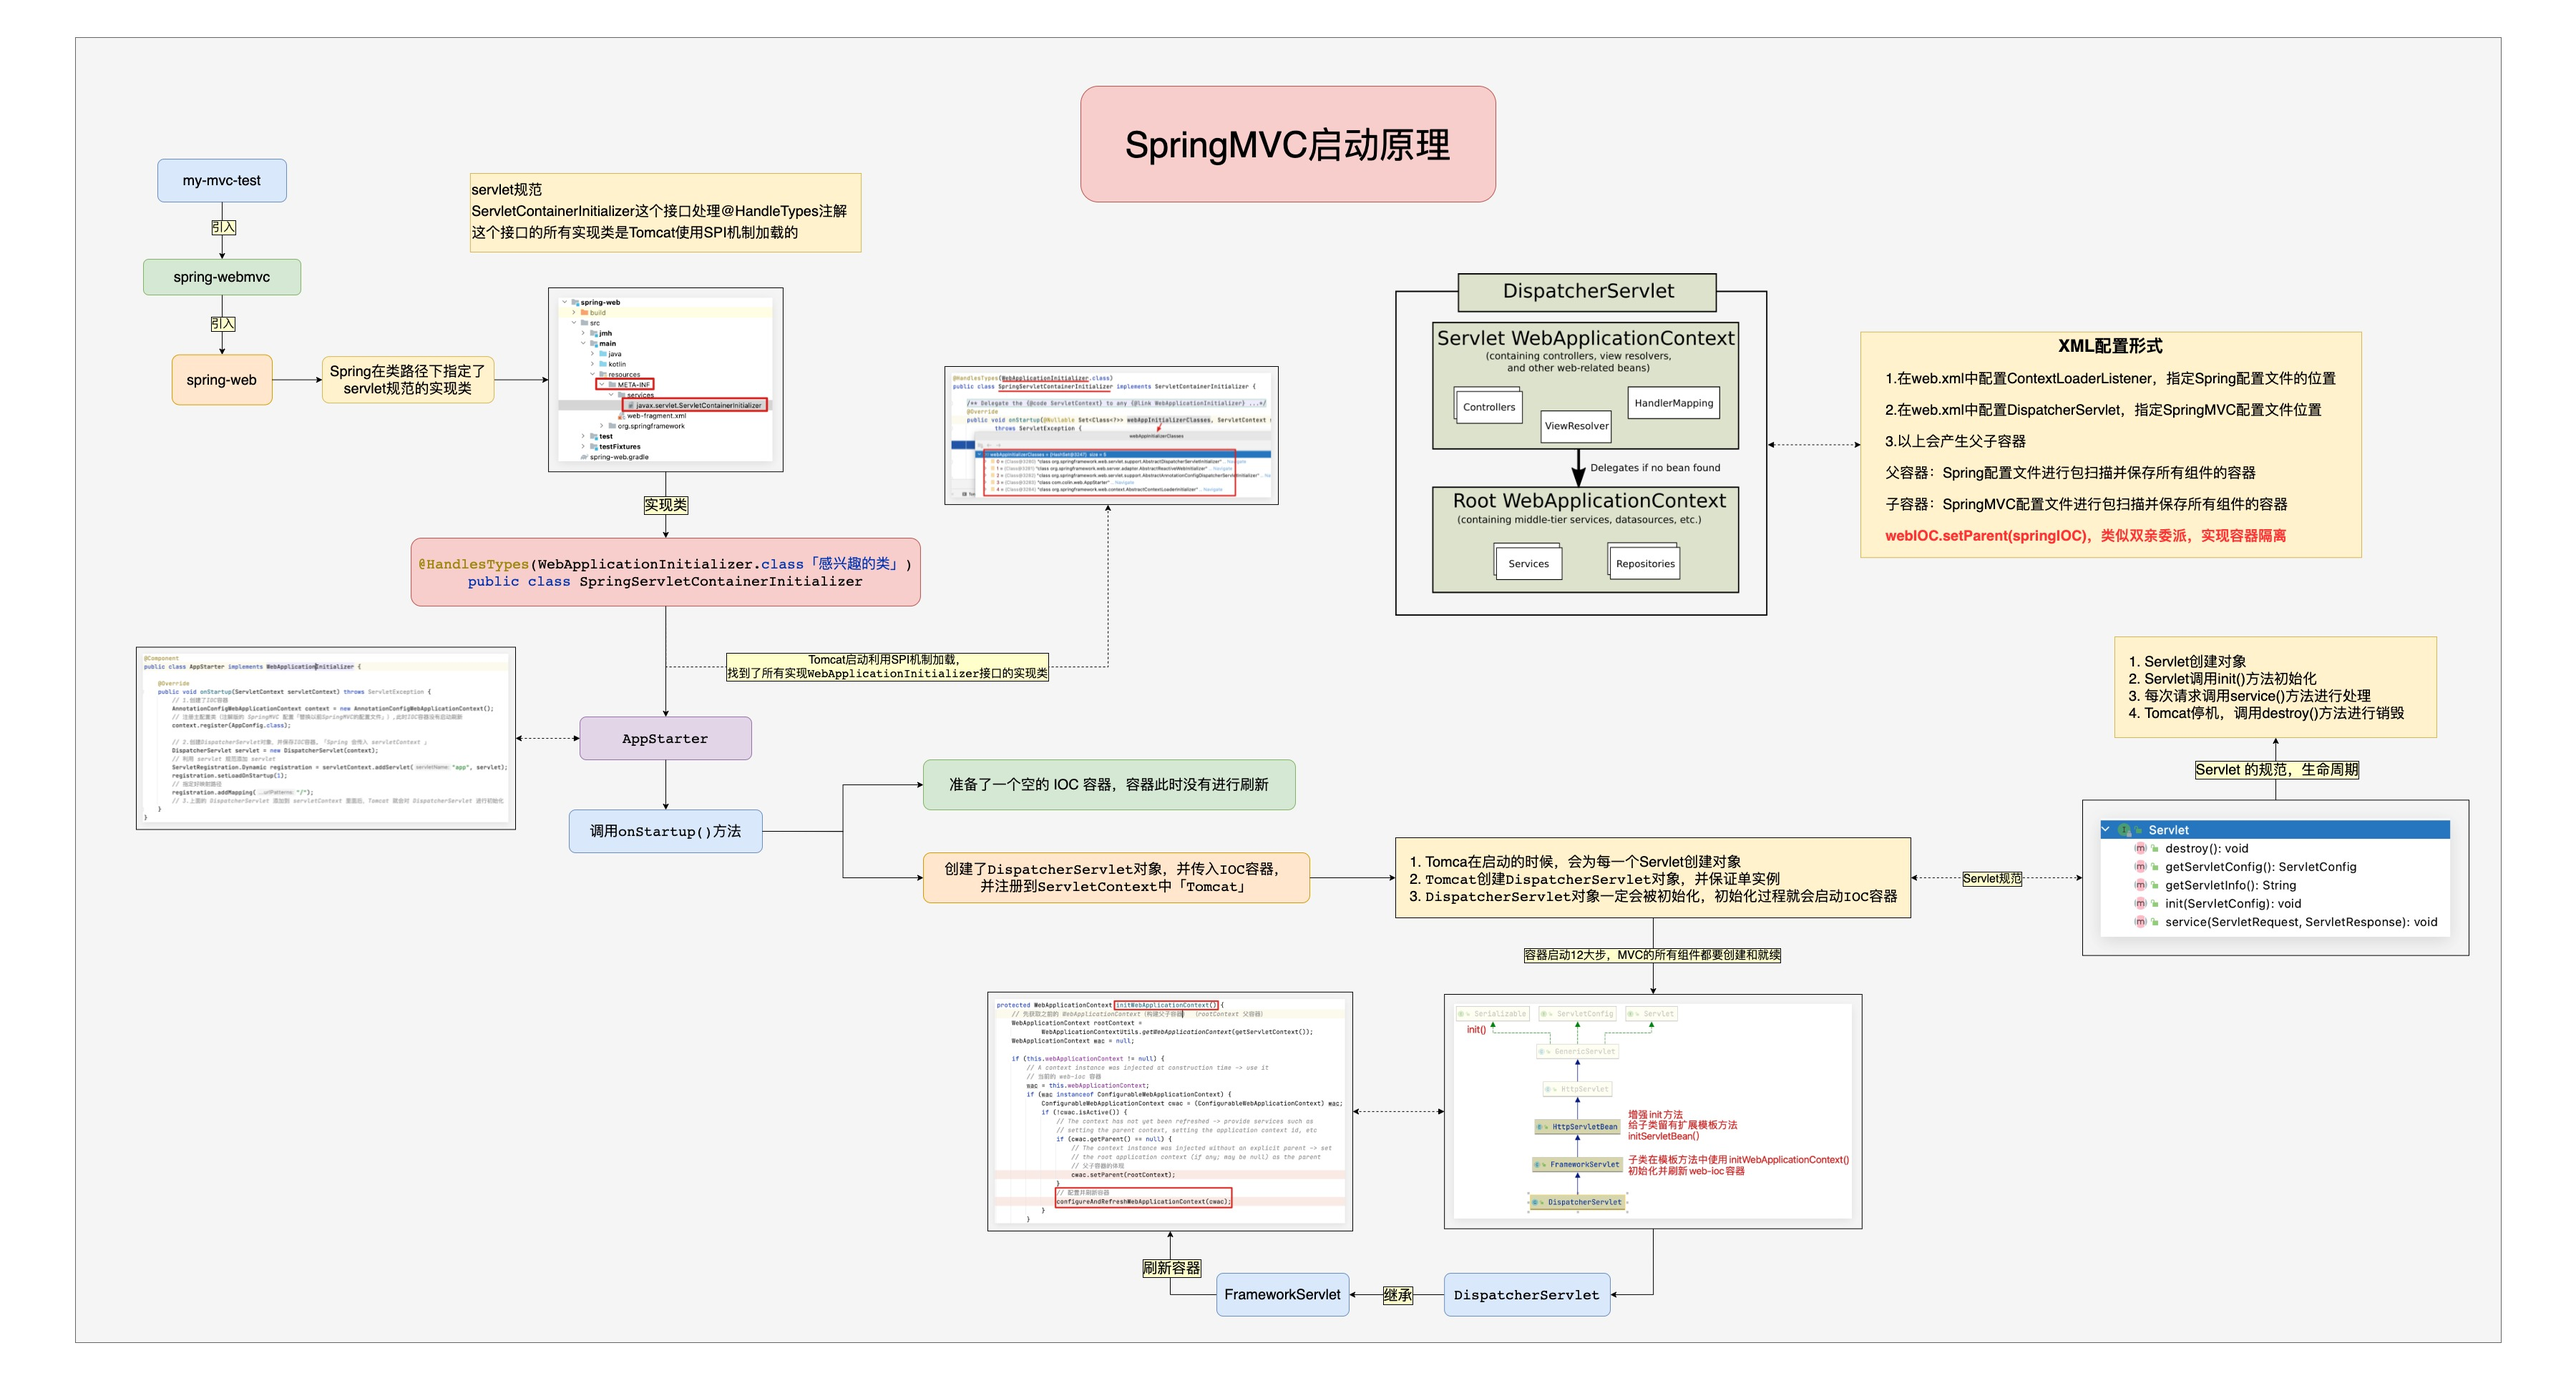
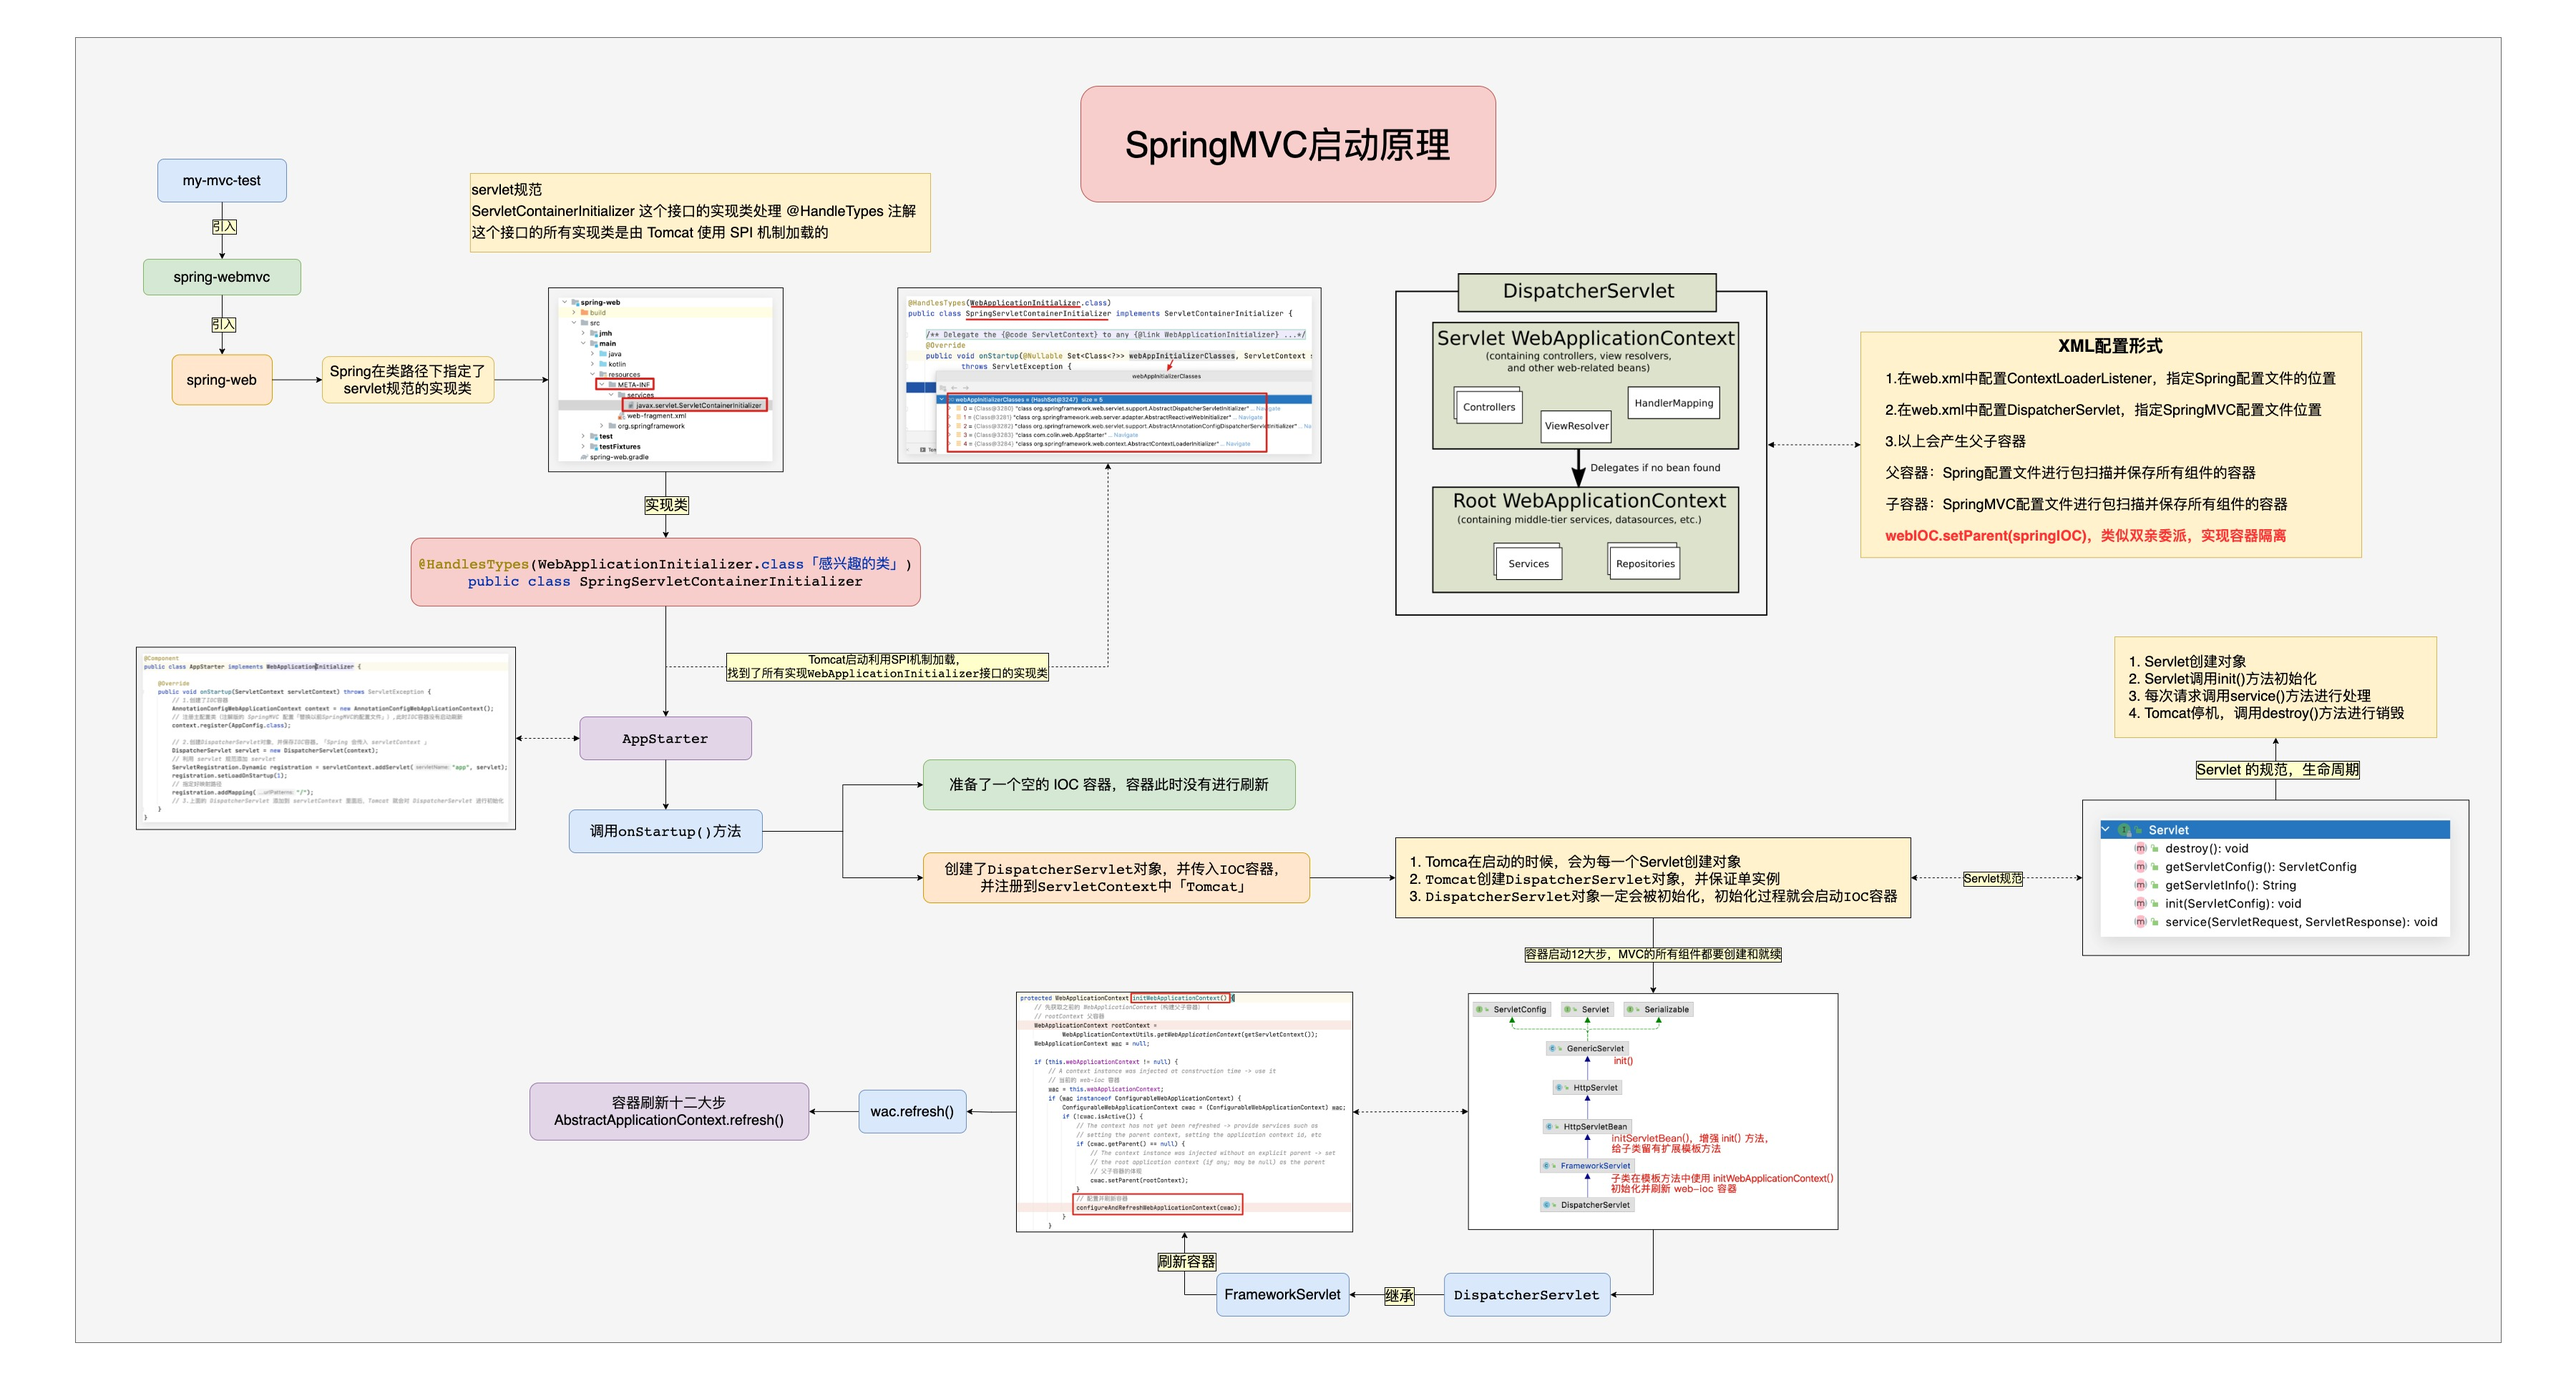
update

diff --git a/spring-webmvc/src/main/java/org/springframework/web/servlet/support/AbstractDispatcherServletInitializer.java b/spring-webmvc/src/main/java/org/springframework/web/servlet/support/AbstractDispatcherServletInitializer.java
@@ -60,9 +60,11 @@ public abstract class AbstractDispatcherServletInitializer extends AbstractConte
 
 	@Override
 	public void onStartup(ServletContext servletContext) throws ServletException {
-		// 创建 ContextLoaderListener（监听器），将其注册进根容器「WebApplicationContext rootAppContext」中
+		// 创建 ContextLoaderListener（监听器），将其注册进根容器中「spring 容器/父容器」。
+		// Tomcat 加载完 web 应用后，会触发监听器钩子调用 contextInitialized() 方法初始化根容器。「所有的业务逻辑组件功能AOP，事务，IOC，自动装配，HelloService创建对像……」
 		super.onStartup(servletContext);
-		// 注册 DispatcherServlet
+		//「根据 web-ioc 容器/子容器」注册 DispatcherServlet。
+		// Tomcat 启动完以后会调用 DispatcherServlet 的初始化 init() 方法进行初始化，web-ioc.setParent(rootAppContext)形成父子容器，子容器刷新，此时Controller才开始创建对象，并自动装配Service（当前容器中没有，要去父容器中找）
 		registerDispatcherServlet(servletContext);
 	}
 

diff --git a/spring-web/src/main/java/org/springframework/web/context/ContextLoaderListener.java b/spring-web/src/main/java/org/springframework/web/context/ContextLoaderListener.java
@@ -98,11 +98,11 @@ public class ContextLoaderListener extends ContextLoader implements ServletConte
 
 
 	/**
-	 * 根容器初始化 Initialize the root web application context.
+	 * Tomcat加载完Web应用后，触发监听器钩子，调用此方法，初始化根容器。Initialize the root web application context.
 	 */
 	@Override
 	public void contextInitialized(ServletContextEvent event) {
-		// 初始化 web-ioc 容器。
+		// 初始化 IOC 容器。「所有的业务逻辑组件功能AOP，事务，IOC，自动装配，HelloService创建对像……」
 		initWebApplicationContext(event.getServletContext());
 	}
 

diff --git a/spring-web/src/main/java/org/springframework/web/context/AbstractContextLoaderInitializer.java b/spring-web/src/main/java/org/springframework/web/context/AbstractContextLoaderInitializer.java
@@ -57,7 +57,7 @@ public abstract class AbstractContextLoaderInitializer implements WebApplication
 	 * @param servletContext the servlet context to register the listener against
 	 */
 	protected void registerContextLoaderListener(ServletContext servletContext) {
-		// 创建一个根容器
+		// 创建一个根容器（依据根配置RootConfig创建一个根容器，并把根配置类注册进容器）
 		WebApplicationContext rootAppContext = createRootApplicationContext();
 		if (rootAppContext != null) {
 			// 利用根容器创建监听器

diff --git a/spring-webmvc/src/main/java/org/springframework/web/servlet/FrameworkServlet.java b/spring-webmvc/src/main/java/org/springframework/web/servlet/FrameworkServlet.java
@@ -707,6 +707,7 @@ public abstract class FrameworkServlet extends HttpServletBean implements Applic
 
 		postProcessWebApplicationContext(wac);
 		applyInitializers(wac);
+		// 刷新容器（容器刷新十二大步）
 		wac.refresh();
 	}
 
